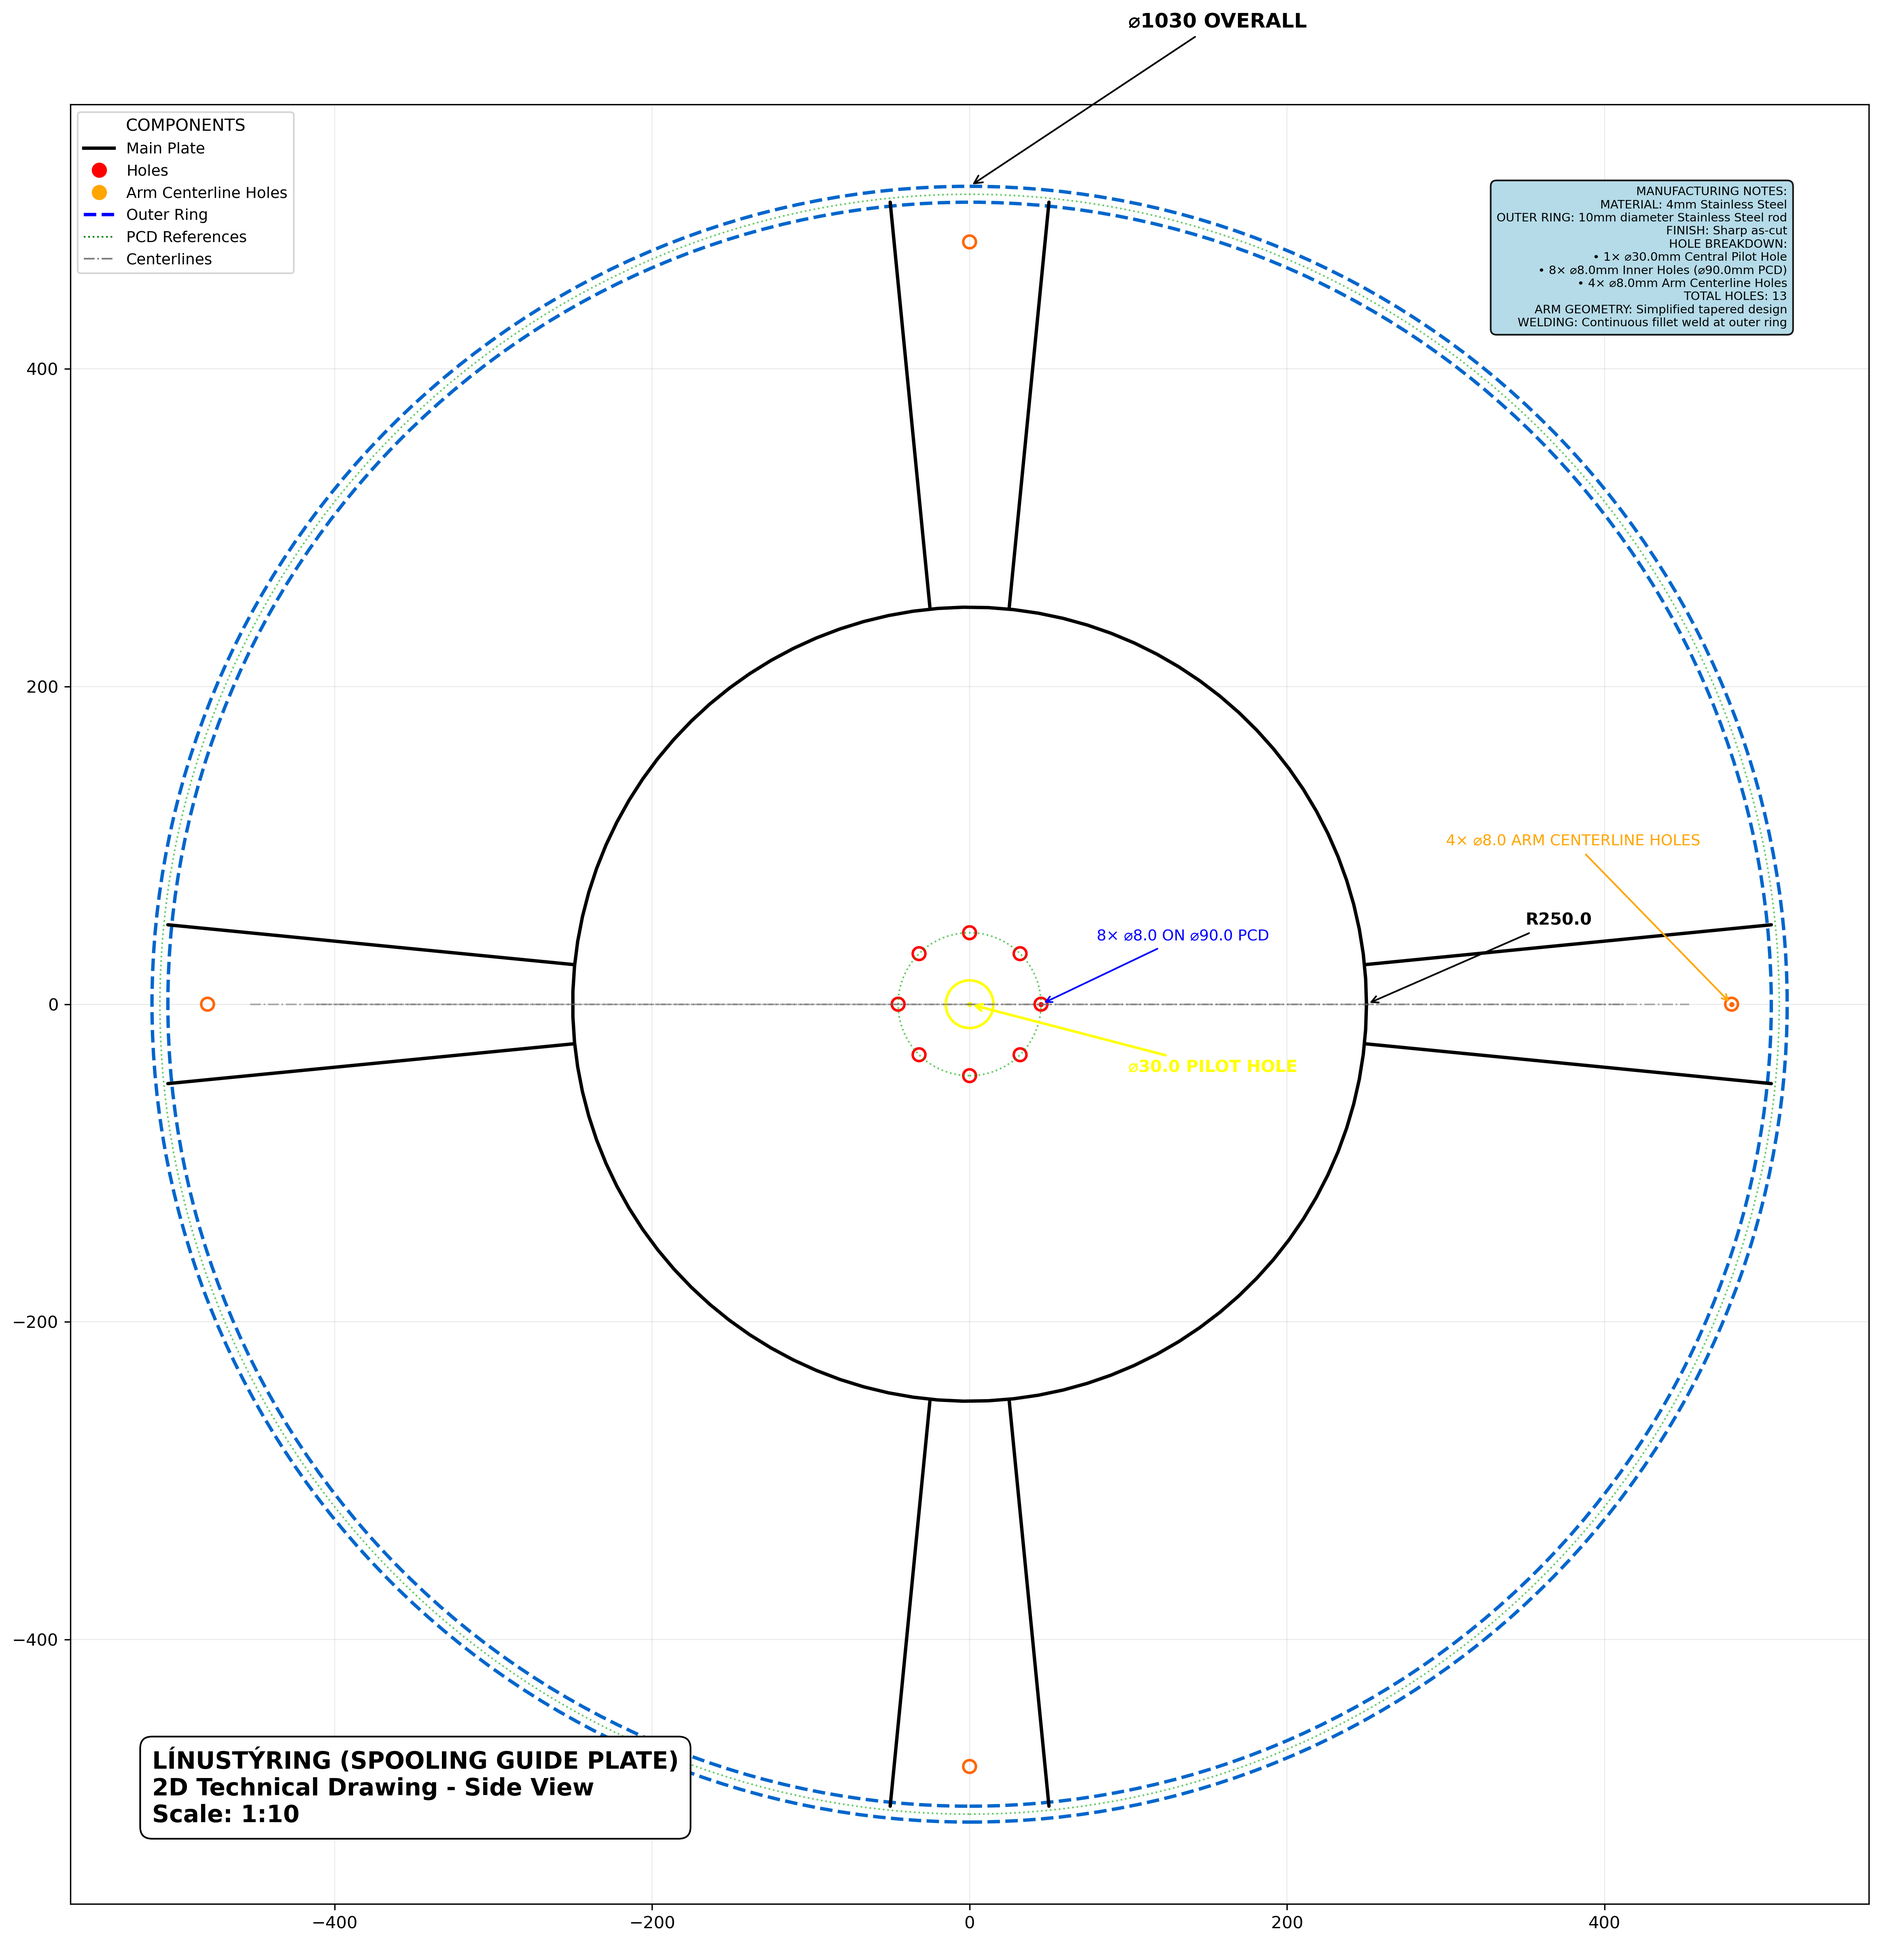
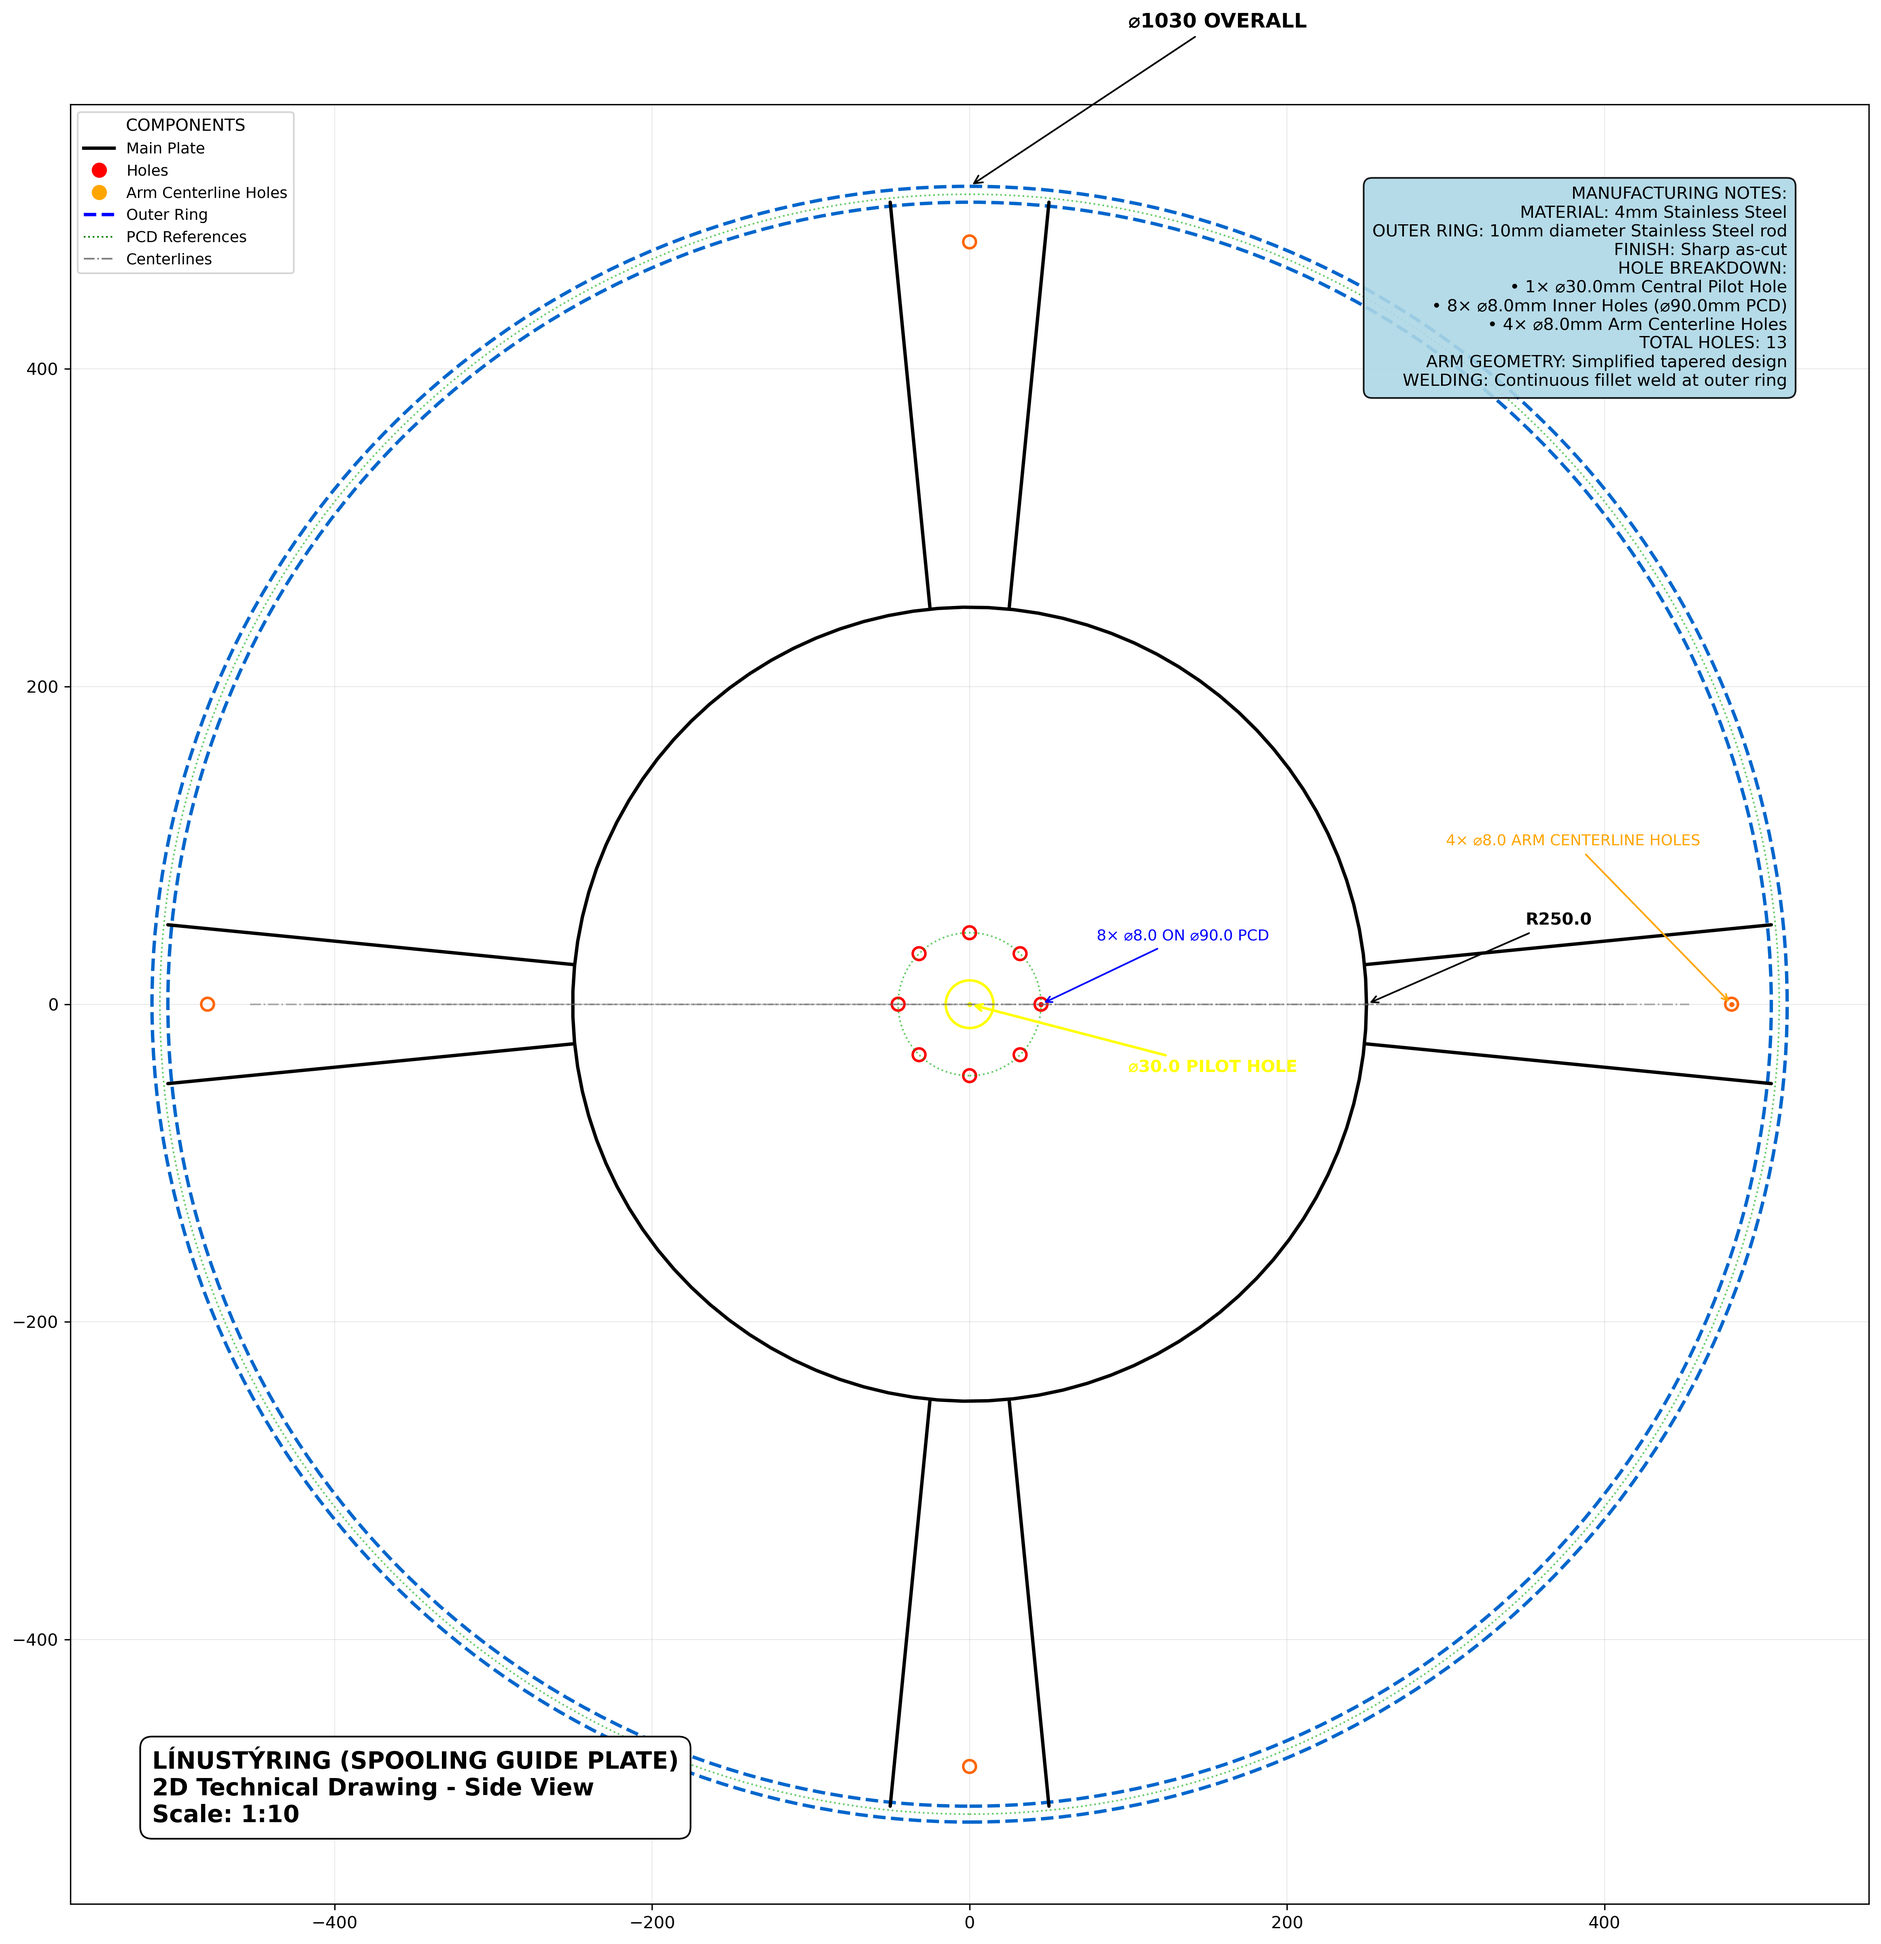
Increase font size in Manufacturing Notes for better readability
- Changed fontsize from 7 to 10 in manufacturing notes
- Improves text visibility and professional appearance
- Better readability for technical documentation
- Maintains clear hierarchy with detailed hole specifications

Changed region(s): [[0.7175, 0.0937, 0.9671, 0.2187]]

diff --git a/src/spooling_guide/annotations.py b/src/spooling_guide/annotations.py
@@ -130,7 +130,7 @@ def add_material_notes(ax):
     
     notes_text = '\n'.join(notes)
     ax.text(note_x, note_y, f"MANUFACTURING NOTES:\n{notes_text}",
-            fontsize=7,  # Reduced from 8 for better fit with detailed notes
+            fontsize=10,  # Increased from 7 for better readability
             bbox=dict(boxstyle="round,pad=0.5", 
                      facecolor='lightblue', 
                      edgecolor='black',
